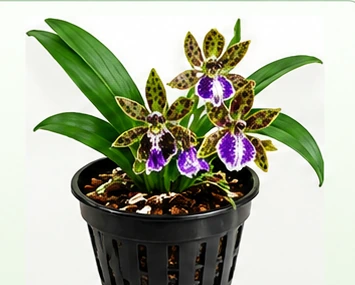
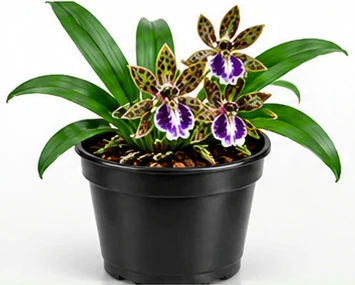
gg
gg

diff --git a/dados/orquideas/zygolum-louisendorf.js b/dados/orquideas/zygolum-louisendorf.js
@@ -43,10 +43,10 @@ export const zygolumLouisendorf = {
     "dica": "Em clima quente, use vaso claro e substrato muito poroso. Regue antes que o meio seque por completo e mantenha ventilação contínua. O objetivo é raiz fresca e úmida, nunca abafada ou superaquecida.",
     formasCultivo: {
         perfilVisual: "zygopetalinae",
-        destaque: "Vaso plástico",
+        destaque: "Vaso plástico fechado",
         resumo: "O Zygolum Louisendorf é melhor cultivado em recipientes que conciliem umidade moderada e boa aeração. As quatro opções abaixo variam principalmente na velocidade de secagem e no controle hídrico.",
         metodos: [
-            { nome: "Vaso plástico", asset: "vaso-plastico", estrelas: 5, status: "Ideal", texto: "É a opção mais equilibrada: conserva a umidade por mais tempo sem impedir boa drenagem. Use vaso proporcional ao sistema radicular, com furos de drenagem livres e substrato aerado." },
+            { nome: "Vaso plástico fechado", asset: "vaso-plastico", estrelas: 5, status: "Ideal", texto: "É a opção mais equilibrada: as laterais fechadas conservam a umidade do substrato por mais tempo. Use vaso proporcional ao sistema radicular, com furos de drenagem apenas no fundo mantidos livres e substrato aerado." },
             { nome: "Vaso de barro", asset: "vaso-barro", estrelas: 4, status: "Muito recomendado", texto: "A terracota porosa aumenta a evaporação e ajuda a manter as raízes mais frescas. É especialmente útil em regiões quentes ou quando o substrato demora a secar, mas pode exigir regas mais frequentes." },
             { nome: "Vaso plástico bem perfurado", asset: "vaso-plastico-vasado", estrelas: 3, status: "Adequado", texto: "Aumenta bastante a aeração e acelera a secagem. Funciona melhor em ambientes úmidos ou com mistura de maior retenção; em clima quente e seco exige atenção maior à frequência de rega." },
             { nome: "Cesto de madeira", asset: "cesto-madeira", estrelas: 2, status: "Pouco recomendado", texto: "Pode ser usado com mistura que preserve mais umidade, porém seca mais rápido que os vasos. Exige controle de rega mais rigoroso e não é a primeira escolha para este híbrido." }
